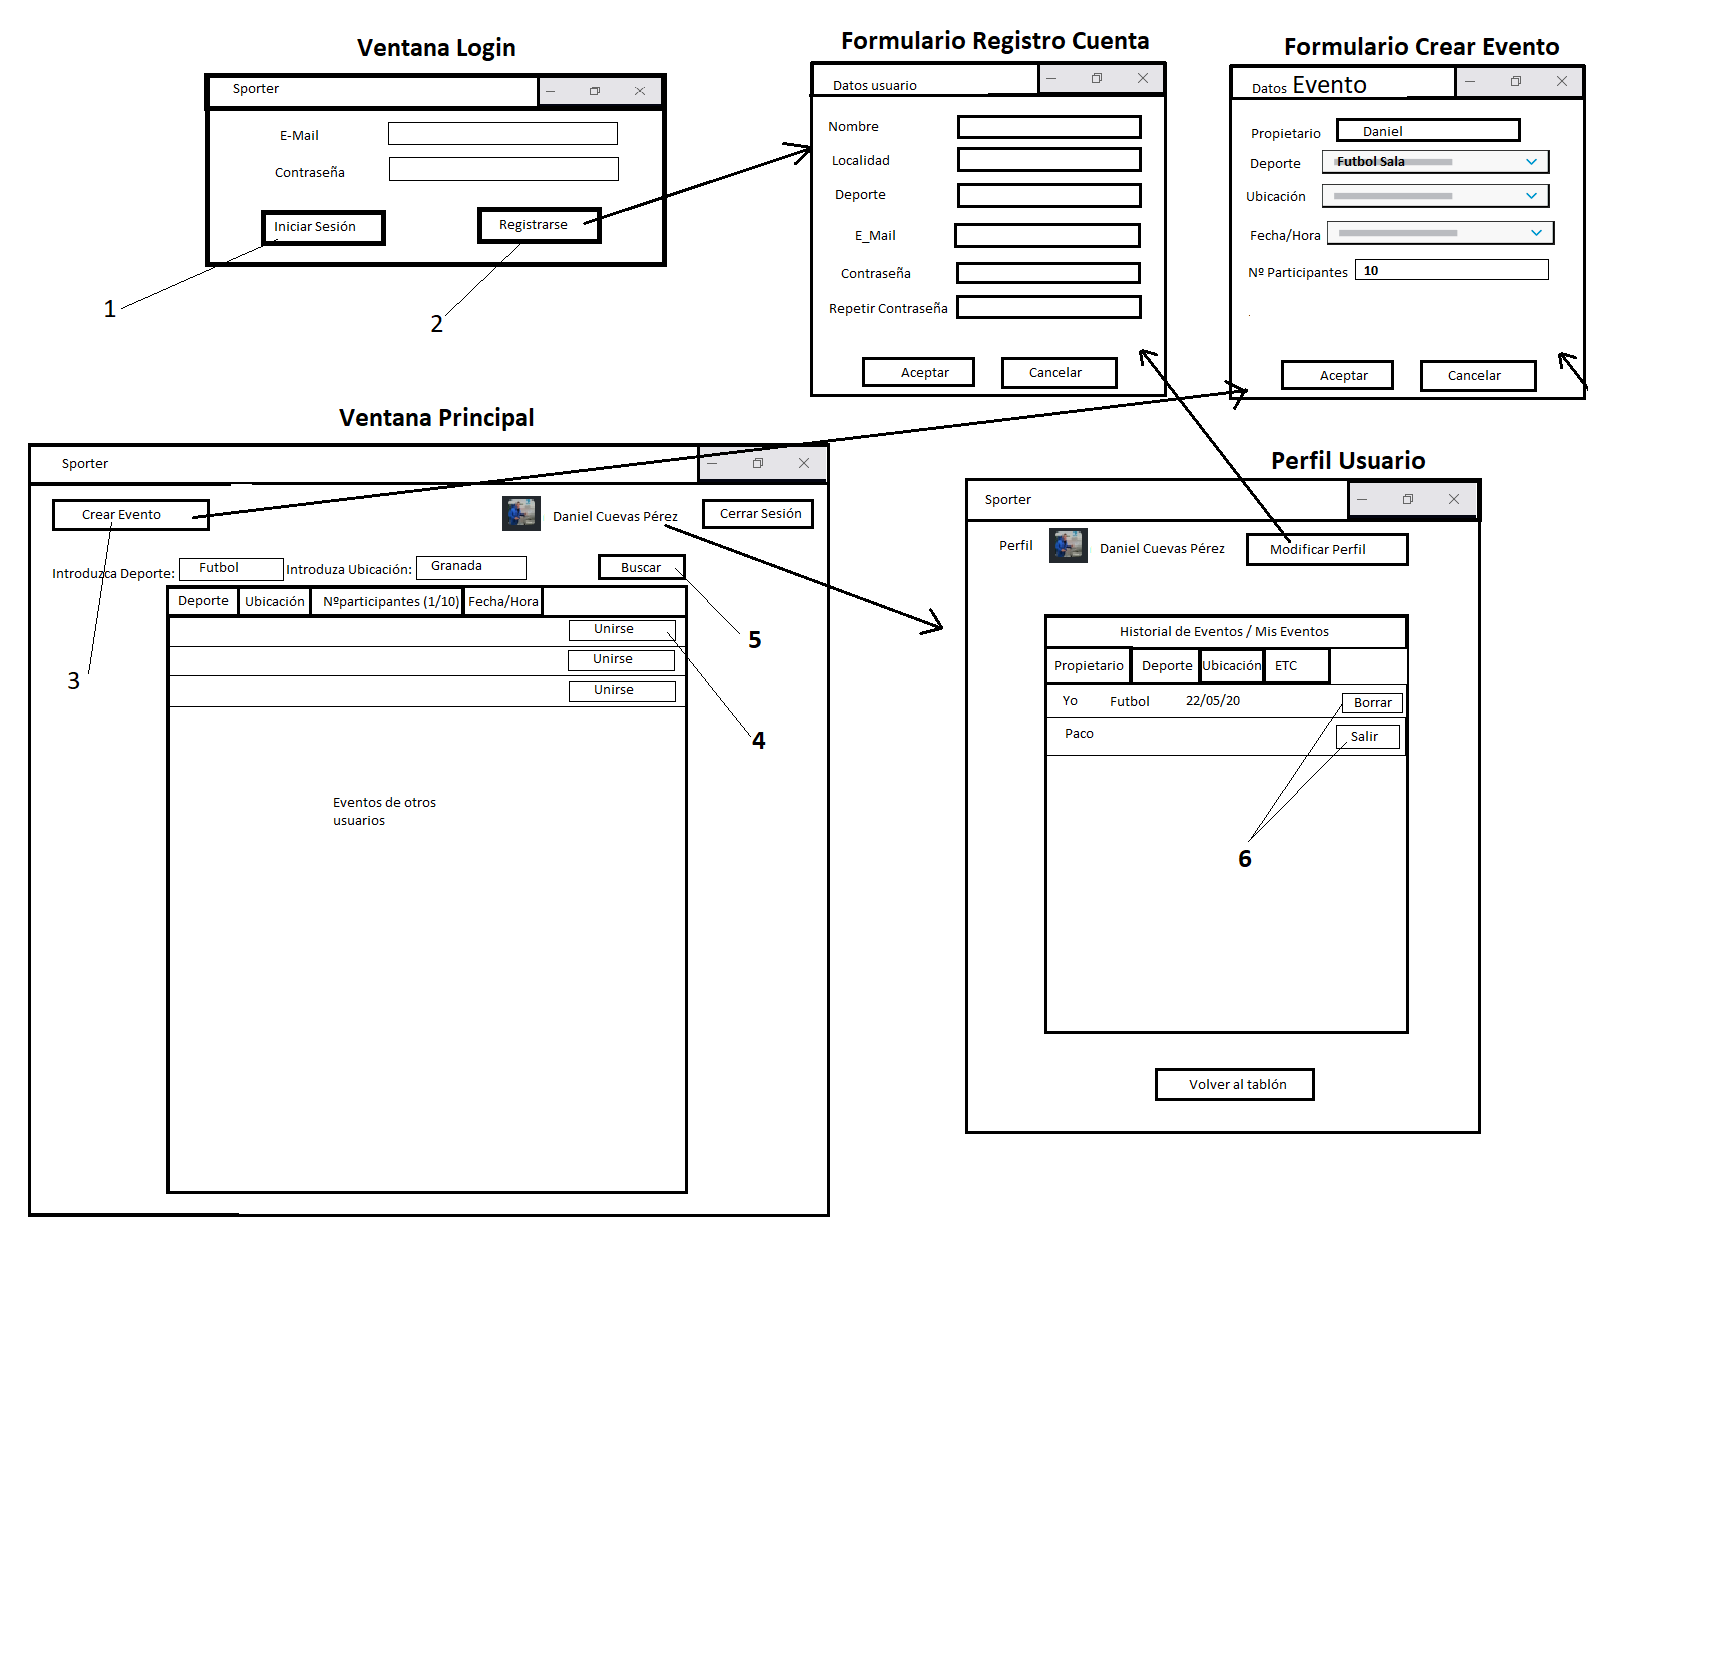
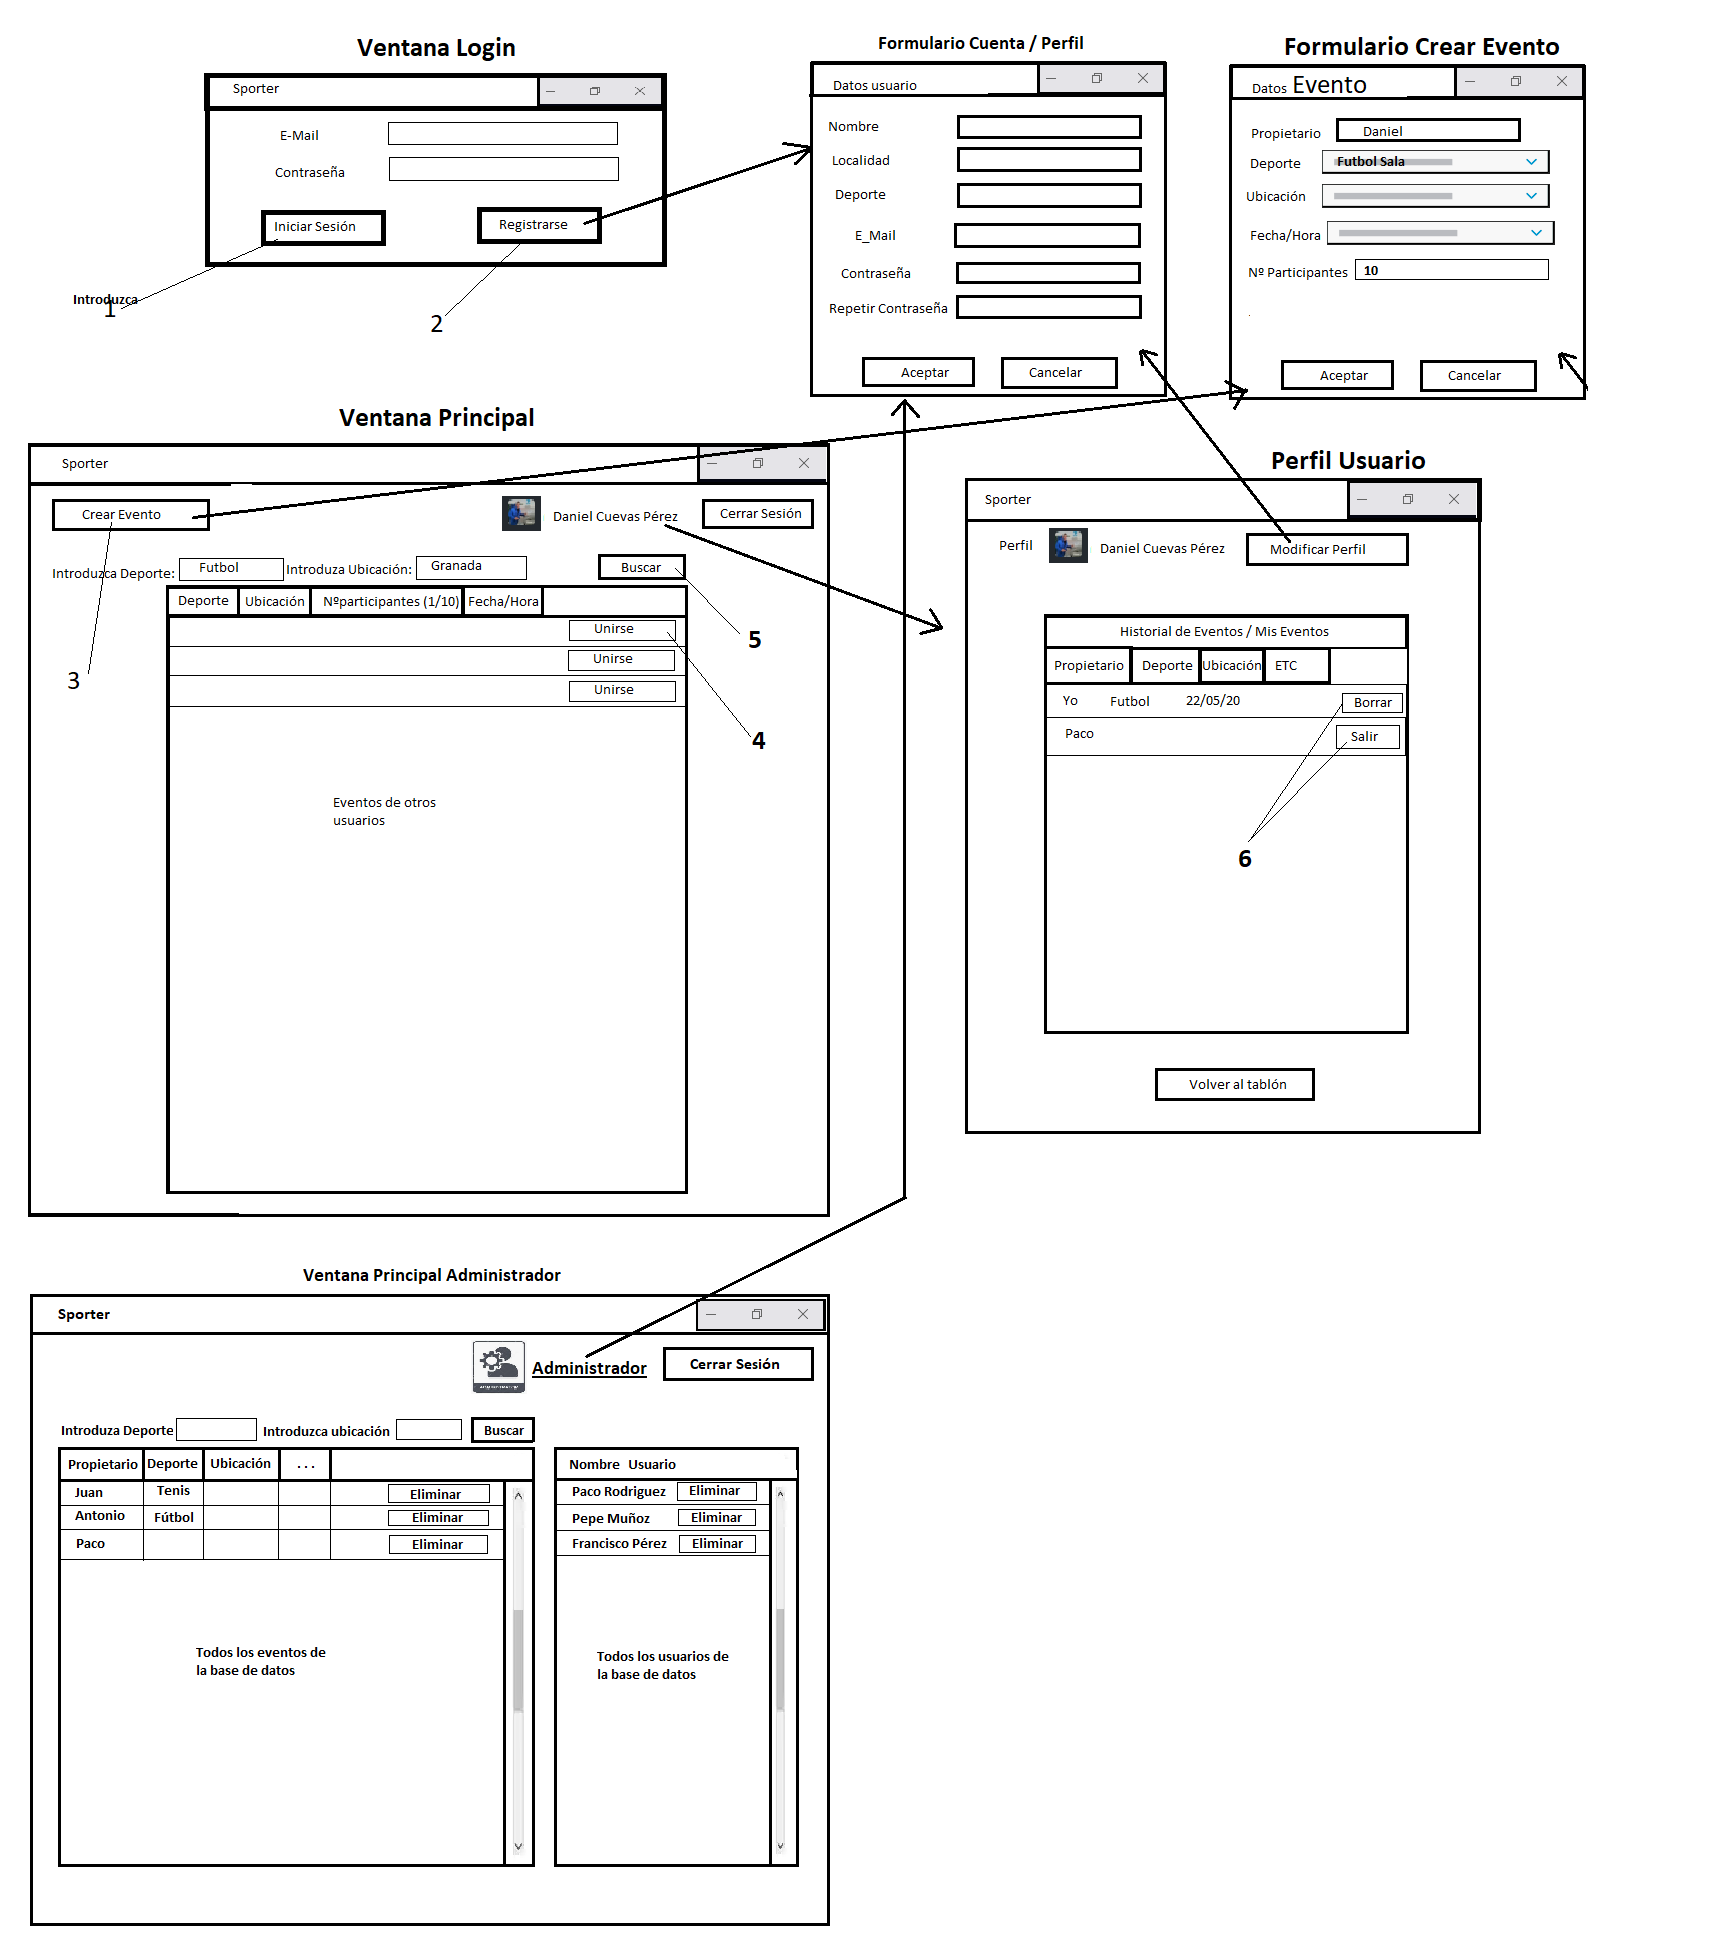
DGR V0.3

diff --git a/Documentacion/Requisitos/template.md b/Documentacion/Requisitos/template.md
@@ -68,11 +68,12 @@ Este es un producto nuevo que no pertenece a ningún sistema mayor.
 ### 2.2 Funciones del producto
 
 Las funciones principales que 'Sporter' llevará a cabo serán:
-*La creación y edición de un perfil: El usuario podrá crear un perfil que contendrá sus datos, deportes favoritos y ubicación así como podrá editarlo en un futuro
-*La publicación de eventos: El usuario podrá publicar un evento indicando un deporte, ubicación y fecha/hora
-*El emparejamiento entre usuario-evento: El sistema permite al usuario ver en el tablón de publicaciones los eventos más adecuados en base a sus datos
-*Filtro de búsqueda de eventos: El sistema permite al usuario ver en el tablón de publicaciones los eventos más adecuados en base a los filtros seleccionados
-*El administrador puede eliminar eventos y perfiles: El sistema permite al administrador acceder a la lista de todos los perfiles,eventos para poder eliminarlos si fuese necesario.
+
+* La creación y edición de un perfil: El usuario podrá crear un perfil que contendrá sus datos, deportes favoritos y ubicación así como podrá editarlo en un futuro
+* La publicación de eventos: El usuario podrá publicar un evento indicando un deporte, ubicación y fecha/hora
+* El emparejamiento entre usuario-evento: El sistema permite al usuario ver en el tablón de publicaciones los eventos más adecuados en base a sus datos
+* Filtro de búsqueda de eventos: El sistema permite al usuario ver en el tablón de publicaciones los eventos más adecuados en base a los filtros seleccionados
+* El administrador puede eliminar eventos y perfiles: El sistema permite al administrador acceder a la lista de todos los perfiles,eventos para poder eliminarlos si fuese necesario.
 
 Diagrama de casos de uso:
 
@@ -80,7 +81,7 @@ Diagrama de casos de uso:
 
 ### 2.3 Restricciones del producto
 
-*Será compatible con los siguientes sistemas operativos:
+Será compatible con los siguientes sistemas operativos:
 - Arquitectura del sistema 32/64 bit.
 - Windows 10 (8u51 y superiores).
 - Windows 8.x (escritorio).
@@ -90,14 +91,14 @@ Diagrama de casos de uso:
 - Windows Server 2012 y 2012 R2 (64 bits).
 - Mac OS Catalina Versión 10.15.4.
 
-*Requisitos mínimos del PC:
+Requisitos mínimos del PC:
 - 512 Mb de memoria Ram.
 - 1024 Mb máquina virtual.
 - 1 GB de espacio de disco duro.
 
 ### 2.4 Perfiles de usuario
 
-*Los distintos perfiles de usuarios que se pueden dar son:
+Los distintos perfiles de usuarios que se pueden dar son:
 - Usuario administrador: usuario con privilegios en la aplicación que administra eventos y perfiles de usuarios.
 - Usuario principiante: usuario que no ha utilizado anteriormente la aplicación y está descubriendo las principales funciones.
 - Usuario casual: usuario que no usa la aplicación de forma frecuente pero conoce las principales funciones. 
@@ -107,7 +108,7 @@ Diagrama de casos de uso:
 
 #### 3.1 Interfaces con el usuario
 
-Nuestra aplicación necesitará una interfaz de usuario. Esta interfaz contará con 3 pantallas diferentes.
+Nuestra aplicación necesitará una interfaz de usuario. Esta interfaz contará con 3 pantallas diferentes:
 * La ventana de Login consistirá en una pantalla de inicio de la aplicación que contará con dos botones: uno para iniciar sesión y otro para registrarse, así como el logo de 'Sporter' en grande, un campo para introducir el correo electrónico del usuario y otro para la contraseña del mismo. Cuando se pulse el botón "registrar", aparecerá un formulario para introducir los datos a rellenar. Si pulsamos el botón iniciar sesión accederá a la ventana principal de la aplicación (tablón de publicaciones) habiendo introducido previamente un correo y contraseña correcta.
 * La ventana tablón de publicaciones estará compuesta por una parte central donde se muestran los eventos. Tal como aparece en la imagen. A la izquierda aparecerá un botón para crear eventos, el cual al pulsarlo muestra el formulario de  crear evento. A la derecha se ve un icono que identifica el perfil del usuario y su nombre. Al pulsarlo te muestra la pantalla de perfil.
 * La ventana perfil de usuario mostrará el perfil con la foto(icono), nombre y deportes favoritos y debajo todos los eventos en los que participa o ha creado el mismo.
